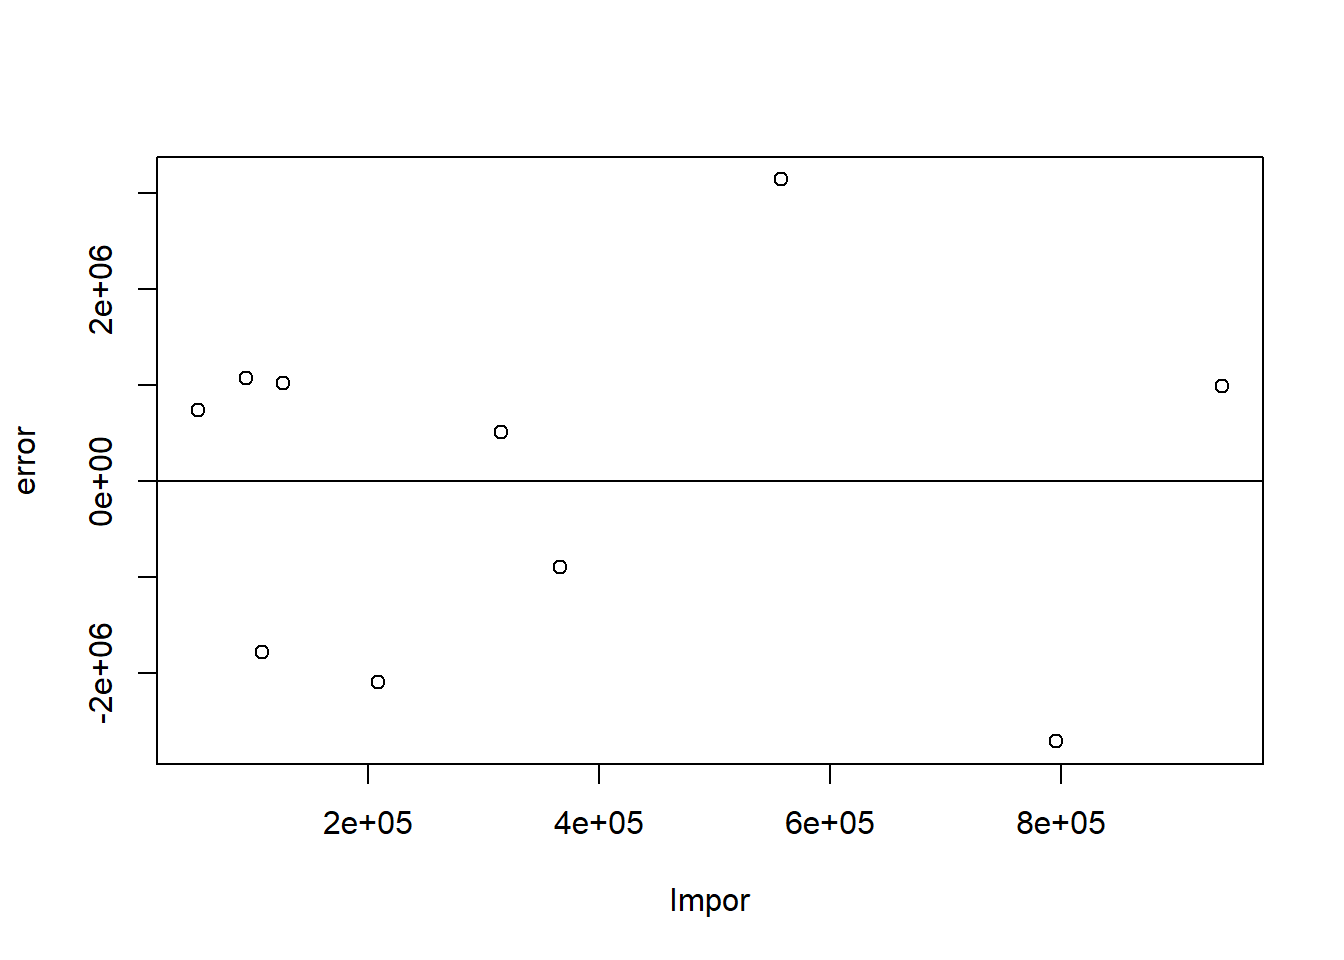
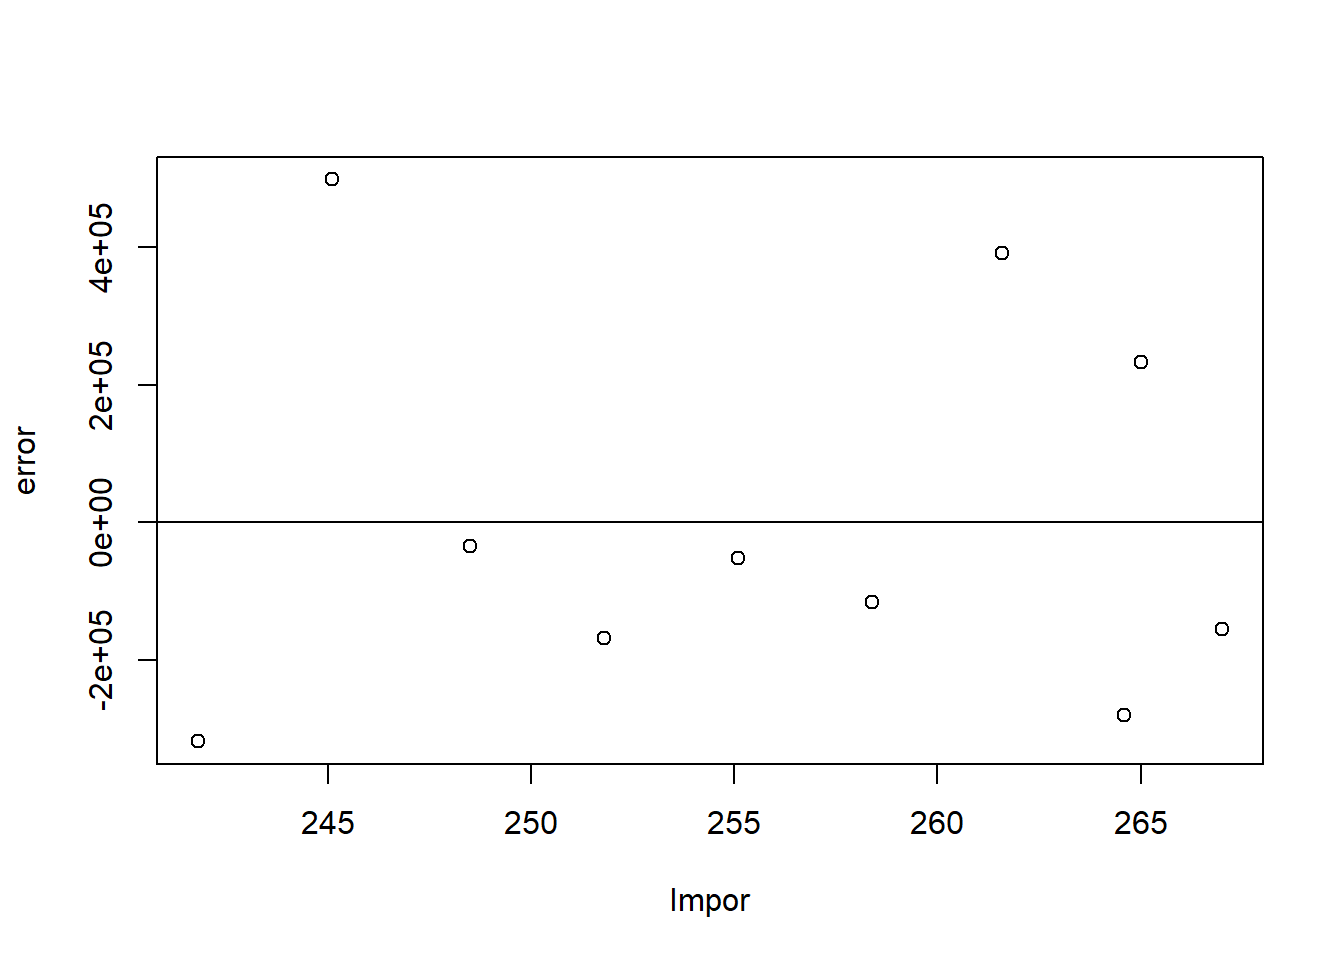
Add files via upload

diff --git a/index.html b/index.html
@@ -157,8 +157,7 @@ pre > code.sourceCode > span > a:first-child::before { text-decoration: underlin
 <p>Packages yang digunakan sebagai penunjang regresi multivariat dalam penelitian ini antara lain sebagai berikut:</p>
 <div class="cell">
 <div class="sourceCode cell-code" id="cb1"><pre class="sourceCode r code-with-copy"><code class="sourceCode r"><span id="cb1-1"><a href="#cb1-1" aria-hidden="true" tabindex="-1"></a><span class="fu">library</span>(tidyverse)</span>
-<span id="cb1-2"><a href="#cb1-2" aria-hidden="true" tabindex="-1"></a><span class="fu">library</span>(readxl)</span>
-<span id="cb1-3"><a href="#cb1-3" aria-hidden="true" tabindex="-1"></a><span class="fu">library</span>(WDI) </span></code><button title="Copy to Clipboard" class="code-copy-button"><i class="bi"></i></button></pre></div>
+<span id="cb1-2"><a href="#cb1-2" aria-hidden="true" tabindex="-1"></a><span class="fu">library</span>(readxl)</span></code><button title="Copy to Clipboard" class="code-copy-button"><i class="bi"></i></button></pre></div>
 </div>
 </section>
 </section>
@@ -182,9 +181,9 @@ pre > code.sourceCode > span > a:first-child::before { text-decoration: underlin
 <thead>
 <tr class="header">
 <th>TAHUN</th>
-<th>Impor (x)</th>
-<th>Jumlah Penduduk (S)</th>
-<th>KONSUMSI BERAS (Y)</th>
+<th>Impor (Y)</th>
+<th>Jumlah Penduduk (X)</th>
+<th>KONSUMSI BERAS (S)</th>
 </tr>
 </thead>
 <tbody>
@@ -252,14 +251,13 @@ pre > code.sourceCode > span > a:first-child::before { text-decoration: underlin
 </table>
 <p>Penelitian ini menggunakan data sekunder dengan bentuk data time series 2010-2019, data yang dipakai ialah data yang telah diolah dengan sumber Badan Pusat Statistik.</p>
 <div class="cell">
-<div class="sourceCode cell-code" id="cb2"><pre class="sourceCode r code-with-copy"><code class="sourceCode r"><span id="cb2-1"><a href="#cb2-1" aria-hidden="true" tabindex="-1"></a><span class="fu">setwd</span>(<span class="st">"~/k;"</span>)</span>
-<span id="cb2-2"><a href="#cb2-2" aria-hidden="true" tabindex="-1"></a><span class="fu">library</span>(readxl)</span>
-<span id="cb2-3"><a href="#cb2-3" aria-hidden="true" tabindex="-1"></a>dat<span class="ot">&lt;-</span><span class="fu">read_excel</span>(<span class="st">'BERAS.xlsx'</span>)</span>
-<span id="cb2-4"><a href="#cb2-4" aria-hidden="true" tabindex="-1"></a><span class="fu">library</span>(readxl)</span>
-<span id="cb2-5"><a href="#cb2-5" aria-hidden="true" tabindex="-1"></a>reg1<span class="ot">&lt;-</span><span class="fu">lm</span>(y<span class="sc">~</span>x<span class="sc">+</span>s, <span class="at">data=</span>dat)</span>
-<span id="cb2-6"><a href="#cb2-6" aria-hidden="true" tabindex="-1"></a>dat<span class="sc">$</span>m<span class="ot">&lt;-</span><span class="fu">resid</span>(reg1)</span>
-<span id="cb2-7"><a href="#cb2-7" aria-hidden="true" tabindex="-1"></a><span class="fu">plot</span>(dat<span class="sc">$</span>x,dat<span class="sc">$</span>m,<span class="at">xlab=</span><span class="st">"Impor"</span>,<span class="at">ylab=</span><span class="st">"error"</span>)</span>
-<span id="cb2-8"><a href="#cb2-8" aria-hidden="true" tabindex="-1"></a><span class="fu">abline</span>(<span class="at">h=</span><span class="dv">0</span>) <span class="co">#membuat garis horizontal di y=0</span></span></code><button title="Copy to Clipboard" class="code-copy-button"><i class="bi"></i></button></pre></div>
+<div class="sourceCode cell-code" id="cb2"><pre class="sourceCode r code-with-copy"><code class="sourceCode r"><span id="cb2-1"><a href="#cb2-1" aria-hidden="true" tabindex="-1"></a><span class="fu">library</span>(readxl)</span>
+<span id="cb2-2"><a href="#cb2-2" aria-hidden="true" tabindex="-1"></a>dat<span class="ot">&lt;-</span><span class="fu">read_excel</span>(<span class="st">'BERAS.xlsx'</span>)</span>
+<span id="cb2-3"><a href="#cb2-3" aria-hidden="true" tabindex="-1"></a><span class="fu">library</span>(readxl)</span>
+<span id="cb2-4"><a href="#cb2-4" aria-hidden="true" tabindex="-1"></a>reg1<span class="ot">&lt;-</span><span class="fu">lm</span>(y<span class="sc">~</span>x<span class="sc">+</span>s, <span class="at">data=</span>dat)</span>
+<span id="cb2-5"><a href="#cb2-5" aria-hidden="true" tabindex="-1"></a>dat<span class="sc">$</span>m<span class="ot">&lt;-</span><span class="fu">resid</span>(reg1)</span>
+<span id="cb2-6"><a href="#cb2-6" aria-hidden="true" tabindex="-1"></a><span class="fu">plot</span>(dat<span class="sc">$</span>x,dat<span class="sc">$</span>m,<span class="at">xlab=</span><span class="st">"Impor"</span>,<span class="at">ylab=</span><span class="st">"error"</span>)</span>
+<span id="cb2-7"><a href="#cb2-7" aria-hidden="true" tabindex="-1"></a><span class="fu">abline</span>(<span class="at">h=</span><span class="dv">0</span>) <span class="co">#membuat garis horizontal di y=0</span></span></code><button title="Copy to Clipboard" class="code-copy-button"><i class="bi"></i></button></pre></div>
 <div class="cell-output-display">
 <p><img src="index_files/figure-html/unnamed-chunk-2-1.png" class="img-fluid" width="672"></p>
 </div>
@@ -267,9 +265,9 @@ pre > code.sourceCode > span > a:first-child::before { text-decoration: underlin
 </section>
 <section id="metode-analisis" class="level3" data-number="3.2">
 <h3 data-number="3.2" class="anchored" data-anchor-id="metode-analisis"><span class="header-section-number">3.2</span> Metode analisis</h3>
-<p>Teknik analisis yang digunakan dalam penelitian ini adalah teknik kuantitatif deskriptif. Metode yang dipilih adalah regresi multivariat dengan 2 variabel independen yaitu ekspor dan impor dan 1 variabel dependen yaitu PDB. Penelitian ini bertujuan untuk mencari hubungan antara Impor Beras (X) dengan Jumlah penduduk (S) dan Jumlah Konsumsi Beras (Y). Spesifikasi yang dilakukan adalah:</p>
+<p>Teknik analisis yang digunakan dalam penelitian ini adalah teknik kuantitatif deskriptif. Metode yang dipilih adalah regresi multivariat dengan 2 variabel independen yaitu ekspor dan impor dan 1 variabel dependen yaitu PDB. Penelitian ini bertujuan untuk mencari hubungan antara Impor Beras (Y) dengan Jumlah penduduk (X) dan Jumlah Konsumsi Beras (S). Spesifikasi yang dilakukan adalah:</p>
 <p><span class="math display">\[
-X=\beta_0 +\beta_1 Y+\beta_2 S+\mu
+Y=\beta_0 +\beta_1 X+\beta_2 S+\mu
 \]</span></p>
 <p>Di mana X adalah Impor Beras Thailand, S adalah Jumlah penduduk Indonesia, dan Y adalah Konsumsi Beras.</p>
 </section>
@@ -337,26 +335,26 @@ X=\beta_0 +\beta_1 Y+\beta_2 S+\mu
 <span id="cb3-3"><a href="#cb3-3" aria-hidden="true" tabindex="-1"></a><span class="fu">head</span>(dat)</span></code><button title="Copy to Clipboard" class="code-copy-button"><i class="bi"></i></button></pre></div>
 <div class="cell-output cell-output-stdout">
 <pre><code># A tibble: 6 × 4
-  TAHUN       x     s        y
-  &lt;dbl&gt;   &lt;dbl&gt; &lt;dbl&gt;    &lt;dbl&gt;
-1  2010 209128.  242. 33189891
-2  2011 938696.  245. 33673006
-3  2012 315353.  248. 34150917
-4  2013  94634.  252. 34623039
-5  2014 366204.  255. 31268435
-6  2015 126746.  258. 33144541</code></pre>
+  TAHUN     x        s       y
+  &lt;dbl&gt; &lt;dbl&gt;    &lt;dbl&gt;   &lt;dbl&gt;
+1  2010  242. 33189891 209128.
+2  2011  245. 33673006 938696.
+3  2012  248. 34150917 315353.
+4  2013  252. 34623039  94634.
+5  2014  255. 31268435 366204.
+6  2015  258. 33144541 126746.</code></pre>
 </div>
 </div>
 <div class="cell">
 <div class="sourceCode cell-code" id="cb5"><pre class="sourceCode r code-with-copy"><code class="sourceCode r"><span id="cb5-1"><a href="#cb5-1" aria-hidden="true" tabindex="-1"></a><span class="fu">library</span>(readxl)</span>
 <span id="cb5-2"><a href="#cb5-2" aria-hidden="true" tabindex="-1"></a>dat<span class="ot">&lt;-</span><span class="fu">read_excel</span>(<span class="st">"BERAS.xlsx"</span>)</span>
 <span id="cb5-3"><a href="#cb5-3" aria-hidden="true" tabindex="-1"></a><span class="fu">library</span>(readxl)</span>
-<span id="cb5-4"><a href="#cb5-4" aria-hidden="true" tabindex="-1"></a>reg1<span class="ot">&lt;-</span><span class="fu">lm</span>(s<span class="sc">+</span>y<span class="sc">~</span>x, <span class="at">data=</span>dat)</span>
+<span id="cb5-4"><a href="#cb5-4" aria-hidden="true" tabindex="-1"></a>reg1<span class="ot">&lt;-</span><span class="fu">lm</span>(x<span class="sc">+</span>s<span class="sc">~</span>y, <span class="at">data=</span>dat)</span>
 <span id="cb5-5"><a href="#cb5-5" aria-hidden="true" tabindex="-1"></a><span class="fu">summary</span>(reg1)</span></code><button title="Copy to Clipboard" class="code-copy-button"><i class="bi"></i></button></pre></div>
 <div class="cell-output cell-output-stdout">
 <pre><code>
 Call:
-lm(formula = s + y ~ x, data = dat)
+lm(formula = x + s ~ y, data = dat)
 
 Residuals:
      Min       1Q   Median       3Q      Max 
@@ -365,7 +363,7 @@ Residuals:
 Coefficients:
               Estimate Std. Error t value Pr(&gt;|t|)    
 (Intercept)  3.265e+07  1.338e+06  24.399  8.5e-09 ***
-x           -1.762e+00  2.892e+00  -0.609    0.559    
+y           -1.762e+00  2.892e+00  -0.609    0.559    
 ---
 Signif. codes:  0 '***' 0.001 '**' 0.01 '*' 0.05 '.' 0.1 ' ' 1
 
@@ -374,7 +372,7 @@ Multiple R-squared:  0.04437,   Adjusted R-squared:  -0.07508
 F-statistic: 0.3715 on 1 and 8 DF,  p-value: 0.5591</code></pre>
 </div>
 </div>
-<p>Melalui analisis regresi, upaya dilakukan untuk memahami keterkaitan antara impor beras ((X)), jumlah penduduk ((S)), dan konsumsi beras ((Y)). Rentang hasil residuals, dari -4952394 hingga 2672774, mencerminkan variasi yang signifikan dalam kemampuan model untuk memprediksi konsumsi beras. Tingginya kesalahan standar residual (2698000) mengindikasikan tingkat ketidakpastian yang signifikan dalam prediksi model ini. R-squared yang rendah (0.04437) dan Adjusted R-squared yang lebih rendah (-0.07508) menggambarkan bahwa model tidak secara efektif menjelaskan variasi dalam konsumsi beras. F-statistic yang rendah (0.3715) dan p-value yang tinggi (0.5591) menyiratkan bahwa secara keseluruhan, model ini tidak memberikan kontribusi yang signifikan dalam menjelaskan variasi konsumsi beras berdasarkan impor beras dan jumlah penduduk.</p>
+<p>Analisis regresi linear sederhana dilakukan untuk memahami hubungan antara variabel Impor Beras (Y) dengan variabel Jumlah penduduk (X) dan Jumlah Konsumsi Beras (S). Hasil regresi menunjukkan bahwa intercept (nilai saat Y=0) adalah 3.265e+07, yang mewakili perkiraan Jumlah penduduk dan Jumlah Konsumsi Beras ketika Impor Beras (Y) sama dengan nol. Koefisien untuk variabel Impor Beras (Y) adalah -1.762e+00, menunjukkan perubahan yang diharapkan dalam Jumlah penduduk dan Jumlah Konsumsi Beras untuk setiap unit perubahan dalam Impor Beras. Namun, koefisien ini tidak signifikan (p-value: 0.559), menunjukkan bahwa variabel Impor Beras mungkin tidak memberikan kontribusi signifikan terhadap variabilitas dalam Jumlah penduduk dan Jumlah Konsumsi Beras. Selain itu, nilai R-squared yang rendah (0.04437) dan p-value F-statistic yang tinggi (0.5591) menunjukkan bahwa model secara keseluruhan tidak signifikan.</p>
 </section>
 </section>
 <section id="kesimpulan" class="level2" data-number="5">
